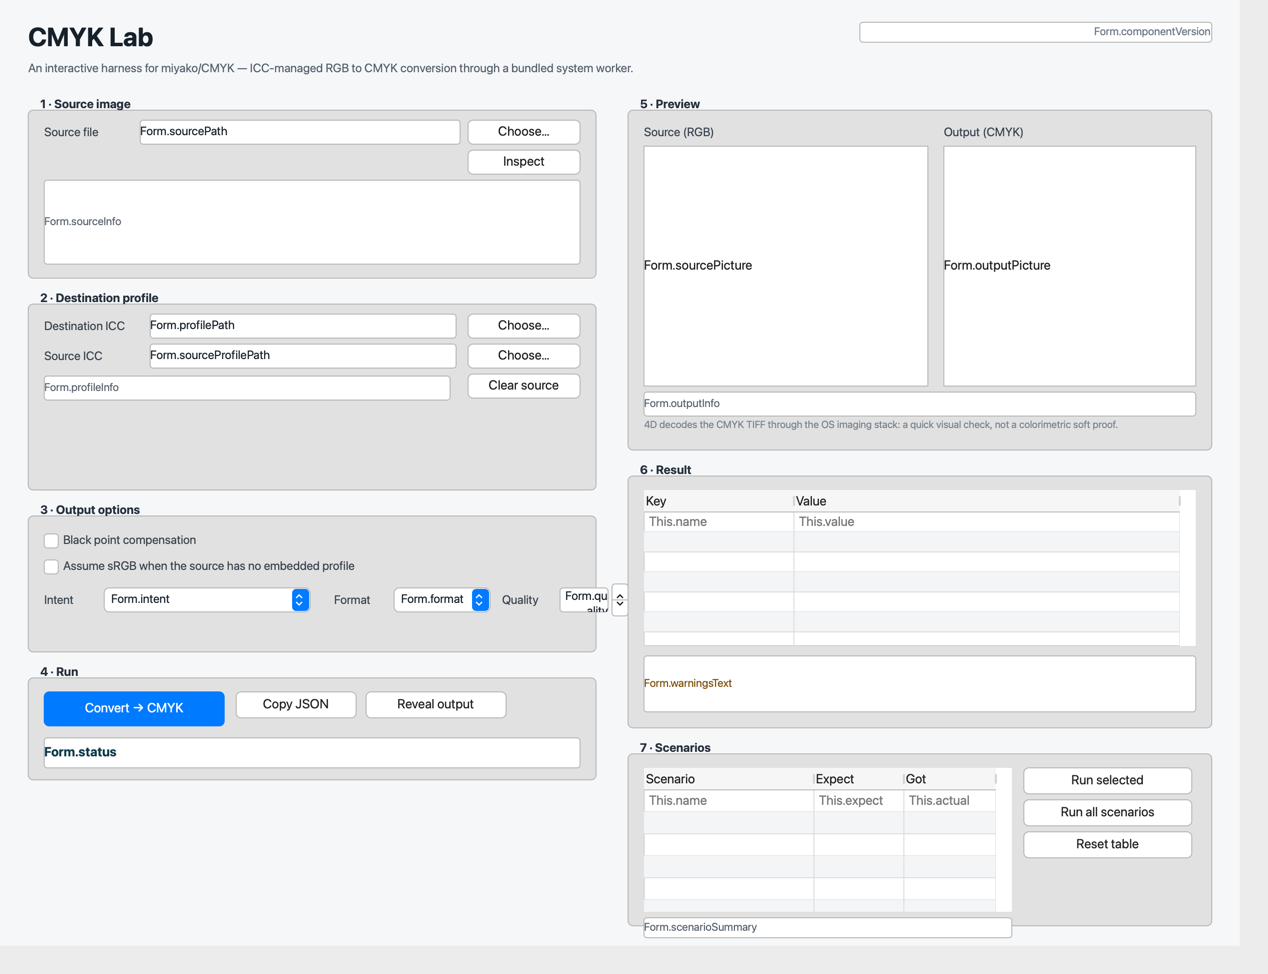
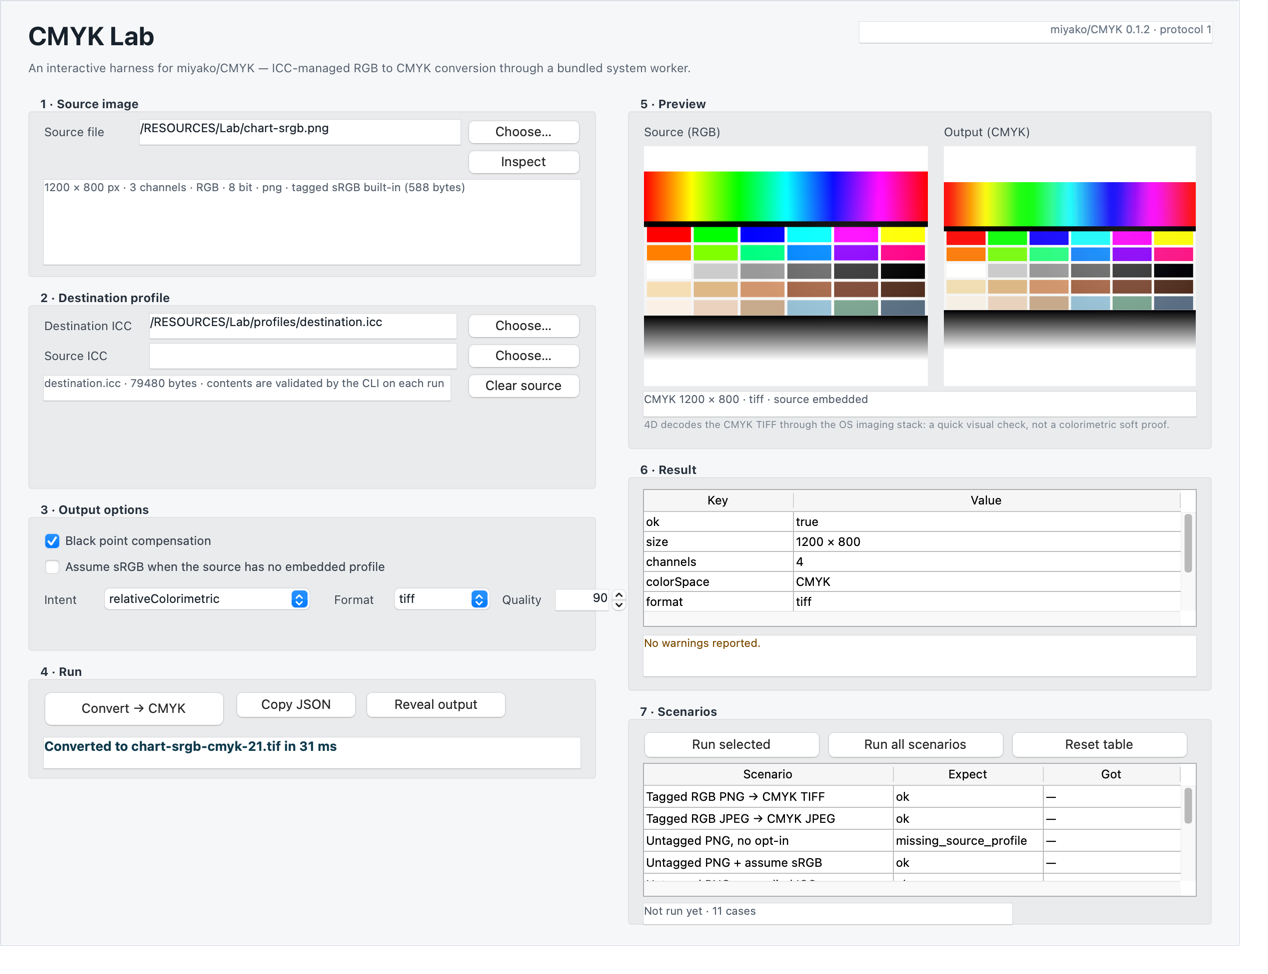
Replace static form renders with runtime screenshots
Capture the Lab form from 4D 21.2 in light and dark appearance (DIALOG + FORM SCREENSHOT) so the images show the applied stylesheet and the post-conversion state; update README and NOTES wording.

diff --git a/README.md b/README.md
@@ -12,12 +12,13 @@ The component is pinned to **0.1.2** in `Project/Sources/dependencies.json`, so
 the 4D IDE installs it through the Dependency Manager like any other component.
 No source from `miyako/CMYK` is copied into this repository.
 
-![Lab form, classic light theme](Documentation/lab-form-light.png)
+![Lab form, light appearance](Documentation/lab-form-light.png)
+![Lab form, dark appearance](Documentation/lab-form-dark.png)
 
-> The images in `Documentation/` are static `fourdform` renders of the form JSON
-> (the 4D layout, not a runtime capture). Widget contents there are placeholders;
-> text styling comes from `Project/Sources/styleSheets.css` at runtime and is not
-> necessarily reflected in these renders.
+> The images in `Documentation/` are runtime captures: 4D 21.2 hosts the `Lab`
+> form with `DIALOG`, applies `styleSheets.css` for each colour scheme, and
+> `FORM SCREENSHOT` saves it after the first conversion has run (see the
+> `dialog_screenshot` chain in the `4dcli` skill).
 
 ## What it demonstrates
 

diff --git a/NOTES.md b/NOTES.md
@@ -83,6 +83,7 @@ real in this repository, not inferred from documentation.
 * Full `Compile project` was not run, because the dependency is a source
   component (see above). Everything reported as passing is an interpreted
   `tool4d` run of the exact staged 0.1.2 archive.
-* `Documentation/*.png` are `fourdform` static renders, not runtime screenshots;
-  CSS classes in `styleSheets.css` are applied by 4D at runtime and may not show
-  in those renders.
+* `Documentation/*.png` are runtime captures from 4D 21.2 (`DIALOG` +
+  `FORM SCREENSHOT`, light and dark colour scheme), so they show the applied
+  stylesheet and the state after the first conversion. They are regenerated by
+  hand when the layout changes; nothing checks them in CI.
